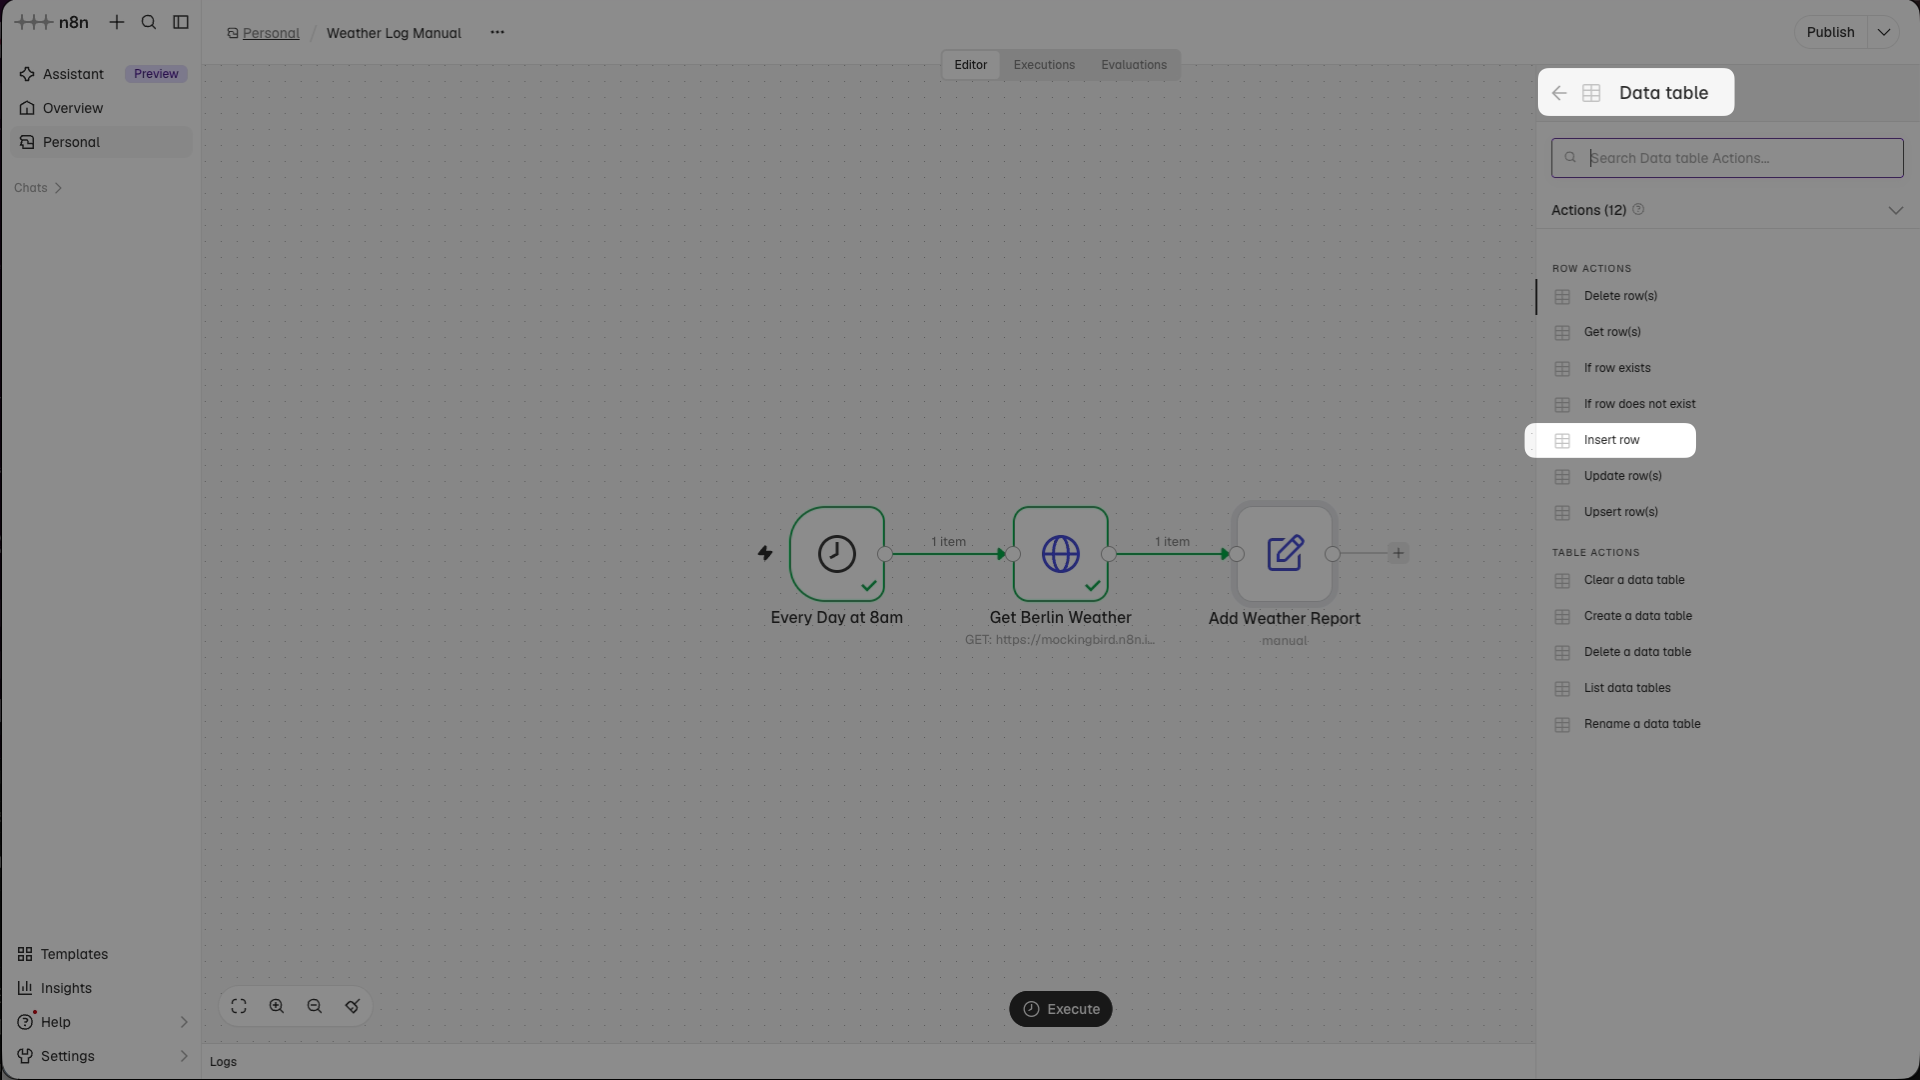
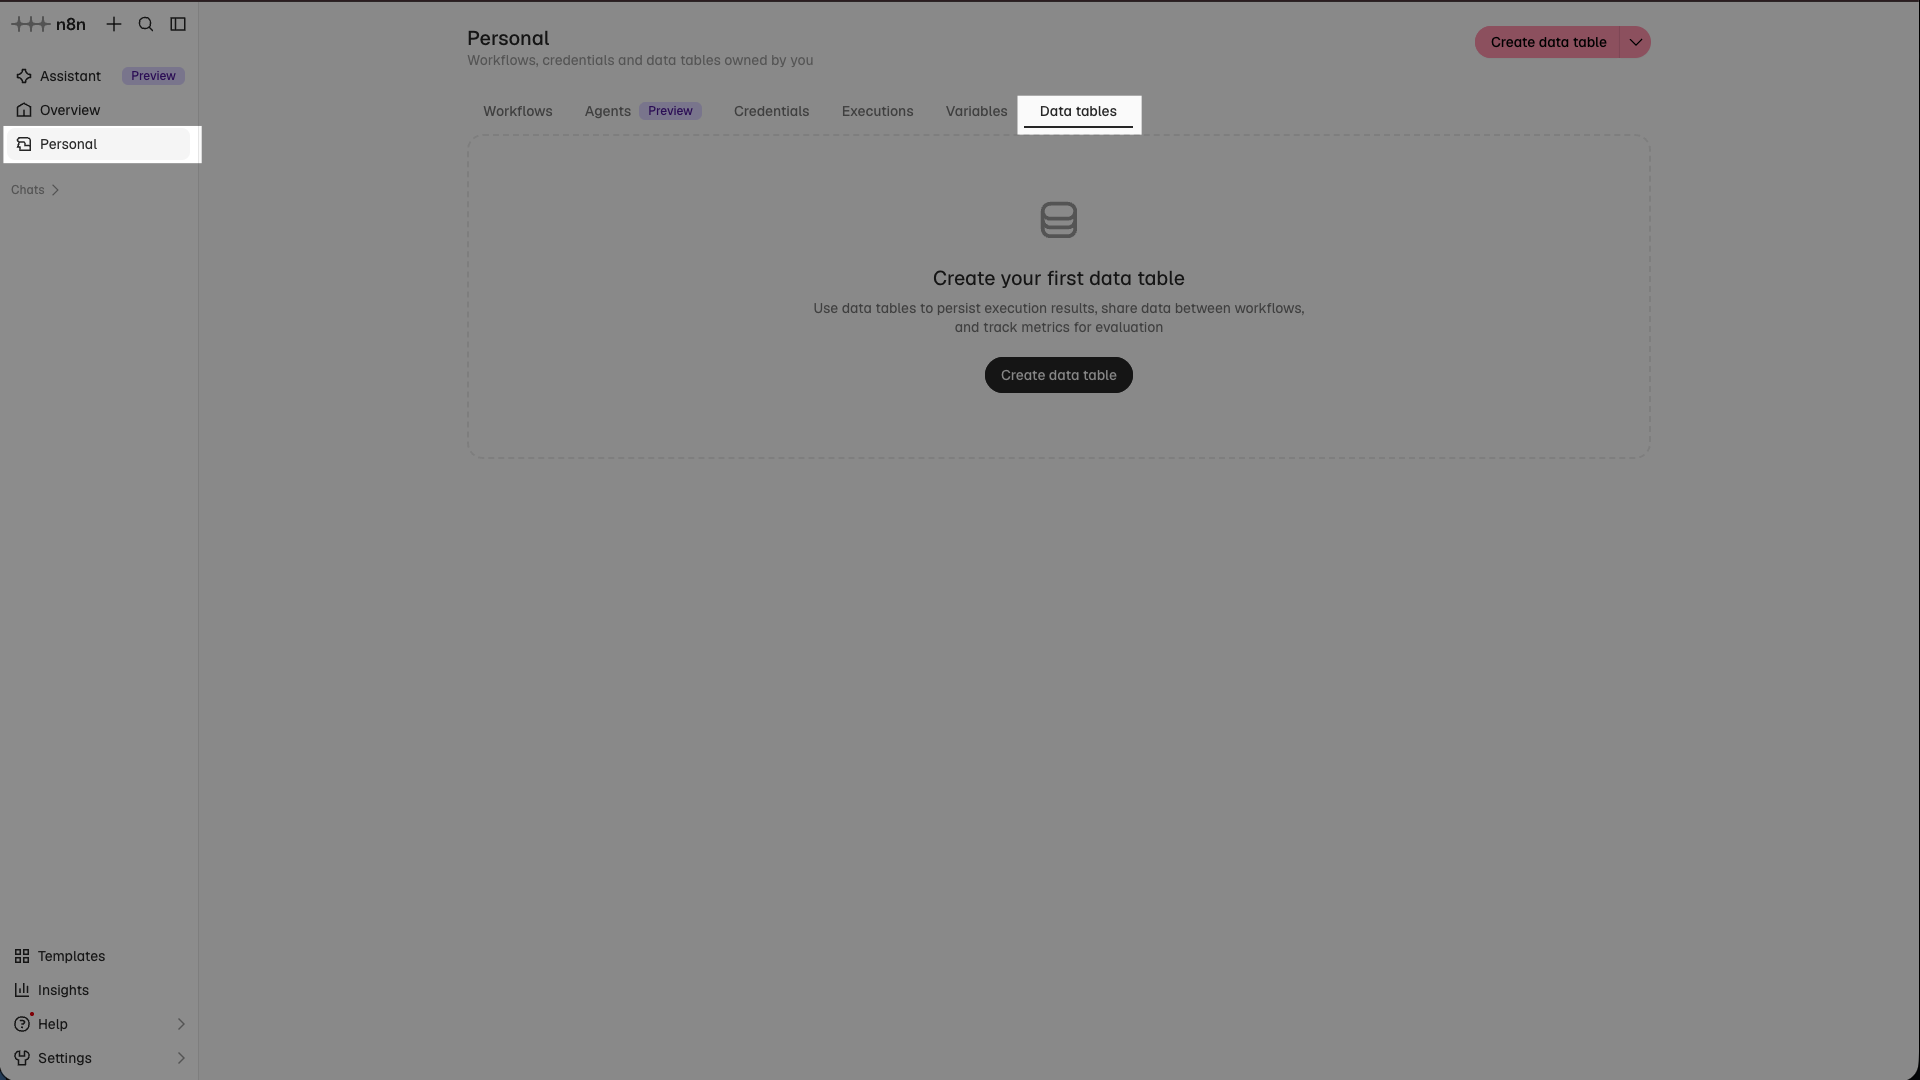
create data table if needed

diff --git a/docs/get-started/build-your-first-workflow.md b/docs/get-started/build-your-first-workflow.md
@@ -104,7 +104,7 @@ n8n Assistant builds workflows from prompts. You describe what you want, approve
 
     ![Weather Data tab selected at the top of the right hand pane](.gitbook/assets/build-your-first-workflow-assistant-06.png)
 
-7. Select **Personal** in the left menu to see the workflow. The Assistant saves all workflows under **Personal**.
+7. Select **Personal** in the left menu to see the workflow. n8n Assistant saves all workflows under **Personal**.
 
     ![Weather Log listed under Personal, marked as Published](.gitbook/assets/build-your-first-workflow-assistant-07.png)
 
@@ -125,7 +125,7 @@ n8n Assistant chooses the node names itself, so yours may differ from the ones a
 
 ## Optional: Build the workflow yourself
 
-The Assistant built the workflow for you. This section builds the same workflow by hand, one node at a time.
+n8n Assistant built the workflow for you. This section builds the same workflow by hand, one node at a time.
 
 You'll end up with a second workflow called `Weather Log Manual`, built from the same four nodes: **Every day at 8am**, **Get Berlin Weather**, **Format Weather Message**, and **Save Weather Report**. It writes to the same `weather_data` table as **Weather Log**.
 
@@ -237,16 +237,30 @@ Next, you’ll turn the weather data into a short report that anyone can read at
 
 You’ll use: **Data table**
 
-You’ve fetched the data and formatted it, so now it’s time to store it. The Assistant already created a [data table](https://app.gitbook.com/s/rPN1zU5jaYNvwH7RzxqA/work-with-data/data-tables) called `weather_data`, so this workflow writes to the same table.
+You’ve fetched the data and formatted it, so now it’s time to store it. If n8n Assistant already created the `weather_data` [data table](https://app.gitbook.com/s/rPN1zU5jaYNvwH7RzxqA/work-with-data/data-tables), then move to step 4.
 
-1. Add a **Data table** node after **Format Weather Message** and select **Insert row** as the action.
+To create the data table:
 
-    ![Insert row action](.gitbook/assets/build-your-first-workflow-optional-05-01.png)
+1. Click **Personal** in the left menu then click **Data tables**.
 
-2. Rename the node to `Save Weather Report`.
-3. Select `weather_data` from the **Data table** list and change **Mapping Column Mode** to **Map Automatically**. The `report` field from **Format Weather Message** has the same name as the column in the data table, so n8n maps them for you.
+    ![Navigating to Data tables](.gitbook/assets/build-your-first-workflow-optional-05-01.png)
 
-    ![Save Weather Report node with the data table selected and Map Automatically set](.gitbook/assets/build-your-first-workflow-optional-05-02.png)
+2. Click **Create data table**, name it `weather_data` and click **Create**.
+
+    ![Create data table](.gitbook/assets/build-your-first-workflow-optional-05-02.png)
+
+3. Click **Add Column**, enter `report` for **Name**, then click **Add Column** again. This gives you a column to store the weather report in.
+
+    ![report column in the new data table](.gitbook/assets/build-your-first-workflow-optional-05-03.png)
+
+4. Add a **Data table** node after **Format Weather Message** and select **Insert row** as the action.
+
+    ![Insert row action](.gitbook/assets/build-your-first-workflow-optional-05-04.png)
+
+5. Rename the node to `Save Weather Report`.
+6. Select `weather_data` from the **Data table** list and change **Mapping Column Mode** to **Map Automatically**. The `report` field from **Format Weather Message** has the same name as the column in the data table, so n8n maps them for you.
+
+    ![Save Weather Report node with the data table selected and Map Automatically set](.gitbook/assets/build-your-first-workflow-optional-05-06.png)
 
 ### 6. Test and publish the workflow
 
